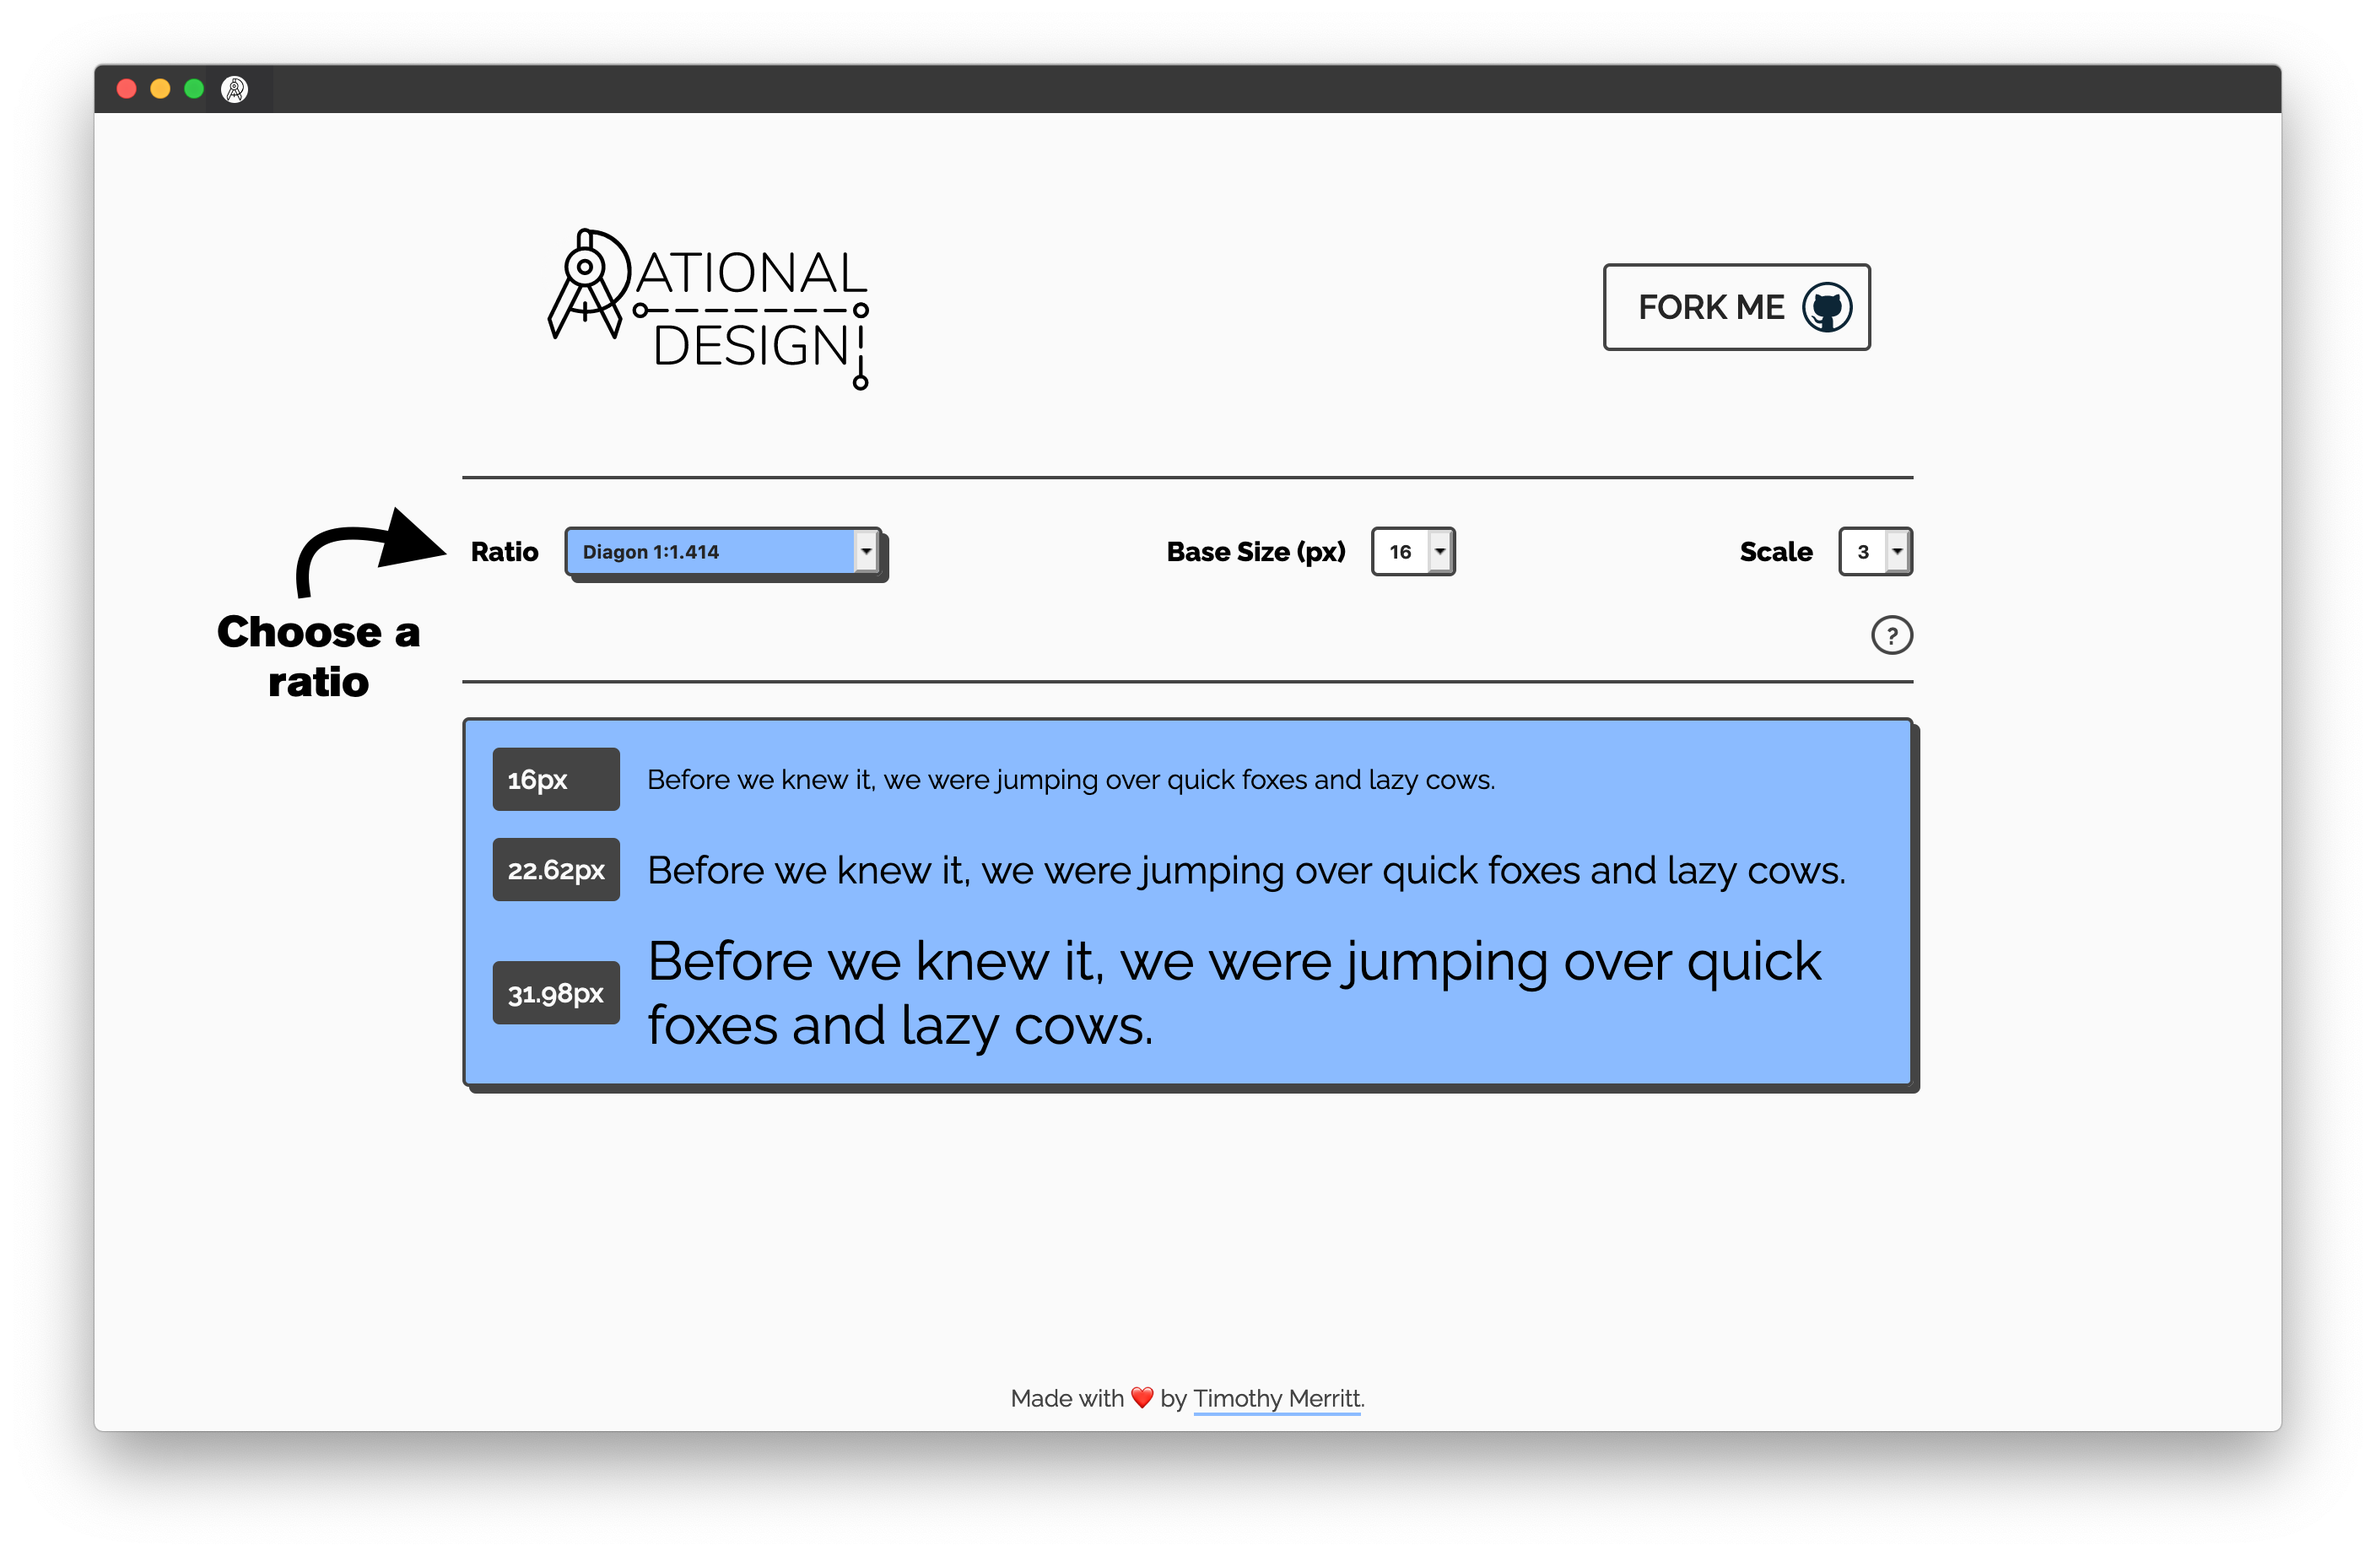
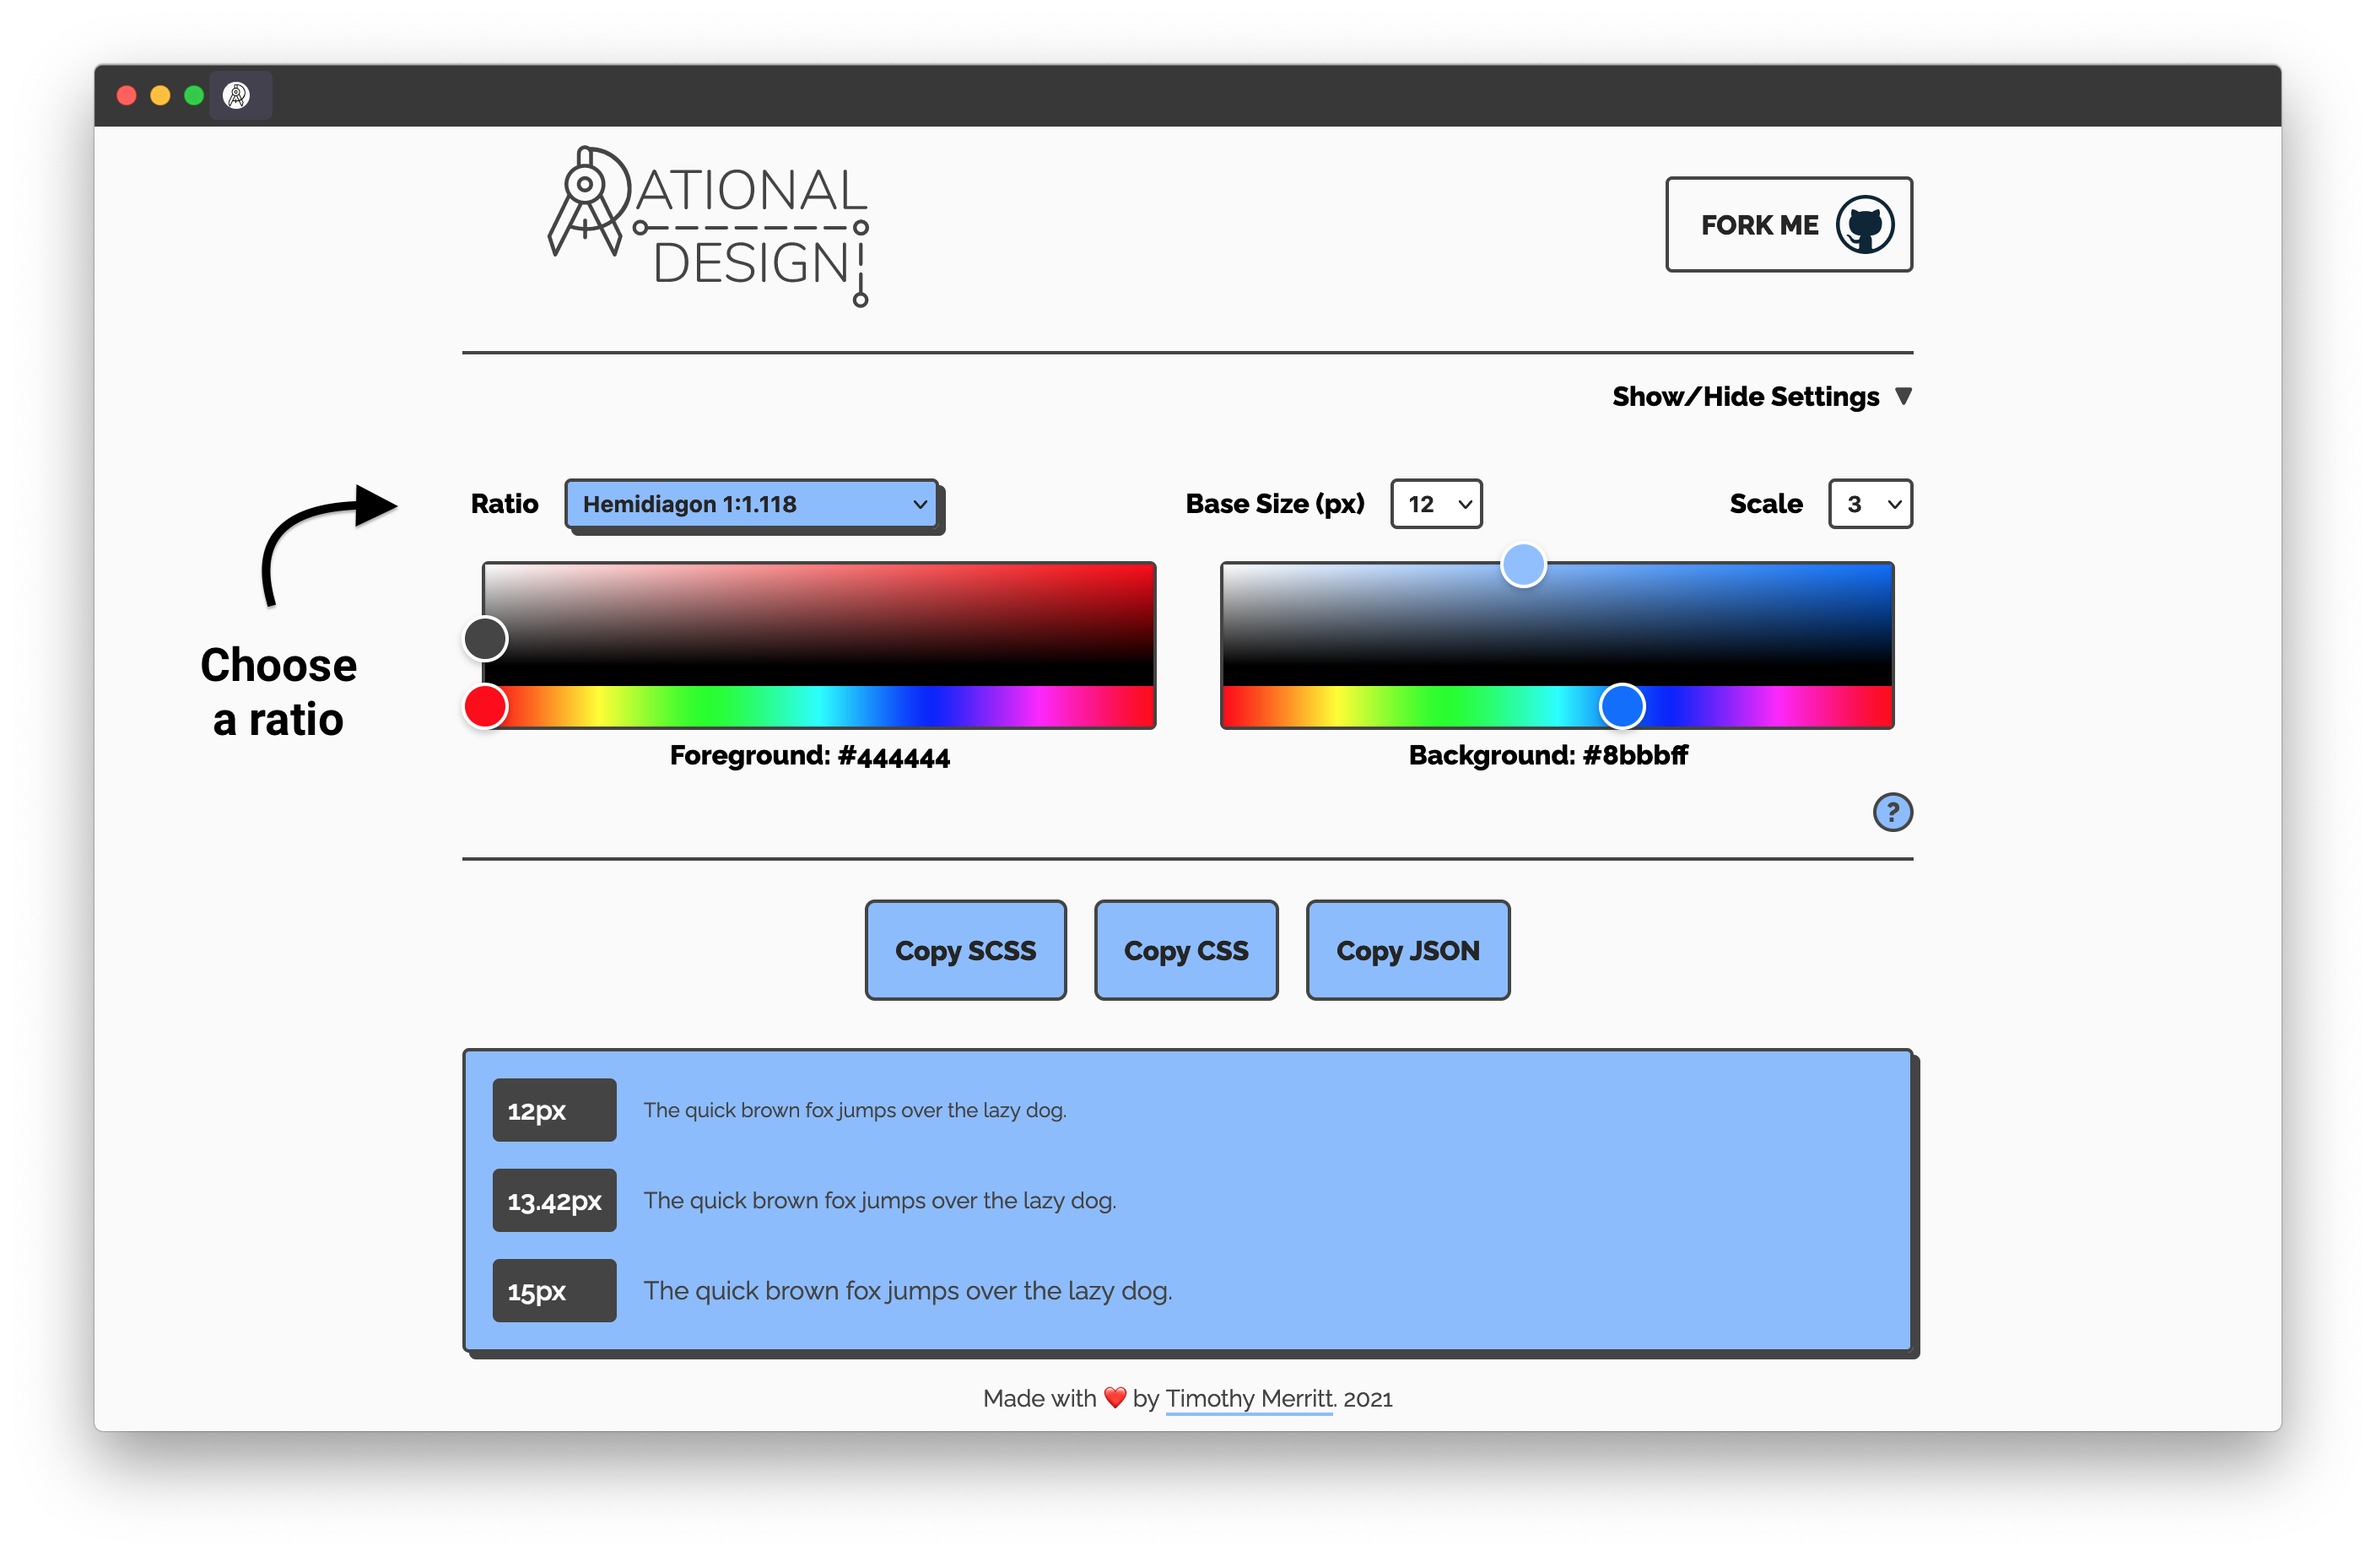
docs(README): Update how-to and add new images

diff --git a/README.md b/README.md
@@ -5,11 +5,6 @@
 <!-- Badges -->
 <div align="center">
   <img alt="GitHub last commit" src="https://img.shields.io/github/last-commit/timmybytes/rational-design" />
-  <img alt='Lighthouse accessibility score' src='./test_results/lighthouse_accessibility.svg' />
-  <img alt='Lighthouse best practices score' src='./test_results/lighthouse_best-practices.svg' />
-  <img alt='Lighthouse performance score' src='./test_results/lighthouse_performance.svg' />
-  <img alt='Lighthouse SEO score' src='./test_results/lighthouse_seo.svg' />
-  <img alt='Lighthouse PWA score' src='./test_results/lighthouse_pwa.svg' />
 </div>
 
 <div align="center">
@@ -42,7 +37,7 @@ Use the [live web app](https://timmybytes.github.io/rational-design/) to create
 a ratio-based type scale. You can click the **info button** in the app for more
 details. Play around with the settings to generate different scales.
 
-<!-- <img src='./src/assets/readme-1.png' alt='Rational Design - Info button display'> -->
+<img src='./src/assets/readme-1.png' alt='Rational Design - Info button display'>
 
 #### Select a ratio
 
@@ -51,40 +46,58 @@ The ratios included come from musical-based ratios, as well as Orthagon ratios.
 You can
 [read more about using ratios in your layouts and designs here](https://alistapart.com/article/content-out-layout/).
 
-<!-- <img src='./src/assets/readme-2.png' alt='Rational Design - Info button display'> -->
-<!-- <img src='./src/assets/readme-3.png' alt='Rational Design - Info button display'> -->
+<img src='./src/assets/readme-2.png' alt='Rational Design - Ratio'>
+<img src='./src/assets/readme-3.png' alt='Rational Design - ratios'>
 
 #### Choose a base size
 
 Choose a base font size (in pixels). The rest of your scale will be calculated
 starting from this number by applying your chosen ratio to each increment.
 
-<!-- <img src='./src/assets/readme-4.png' alt='Rational Design - Info button display'> -->
+<img src='./src/assets/readme-4.png' alt='Rational Design - base size'>
 
 #### Choose a scale
 
 The **scale** determines how many ratio increments the app should output. The
 default is 3, but you can go up to 99.
 
-<!-- <img src='./src/assets/readme-5.png' alt='Rational Design - Info button display'> -->
+<img src='./src/assets/readme-5.png' alt='Rational Design - scale'>
 
 #### Chose colors
 
-A color chooser is incorporated into Rational Design's settings via
-[react-color](https://casesandberg.github.io/react-color/#examples). Use the
-color pairings to see your type scale in different color contrasts.
+A color chooser is incorporated into Rational Design as well. Use the color
+pairings to see your type scale in different color contrasts.
 
-<!-- <img src='./src/assets/readme-colors.png' alt='Rational Design - color palette display'> -->
+<img src='./src/assets/readme-colors.png' alt='Rational Design - color palette display'>
 
 #### Copy your type scale
 
 The settings you create can be copied as SCSS, CSS, or JSON data, and pasted
 right into your project. You can use the resulting increments as a system for
-consistency in your projects. Instead of just eyeballing bigger and smaller
-sizes, choose from your scale and your designs will be more pleasing to the eye
-(and easier to manage).
+consistency in your projects:
 
-<!-- <img src='./src/assets/readme-6.png' alt='Rational Design - Info button display'> -->
+<img src='./src/assets/readme-7.png' alt='Rational Design - copy button'>
+
+##### Copied settings as SCSS variables
+
+```scss
+// Color Variables
+$foreground: #444444;
+$background: #8bbbff;
+
+// Type-Scale Variables
+$base-font-size: 12px;
+$ratio: 1.118;
+$size-1: 12px;
+$size-2: 13.42px;
+$size-3: 15px;
+```
+
+#### Hide settings
+
+You can also hide the settings panel altogether by clicking the **hide** button.
+
+<img src='./src/assets/readme-6.png' alt='Rational Design - hide settings'>
 
 ---
 
@@ -117,9 +130,7 @@ npm start
 
 ## Contributing
 
-Feel free to submit a pull request if you want to add features or changes,
-though I would caution this app is still in early stages and I plan to greatly
-expand its current feature set.
+Feel free to submit a pull request if you want to add features or changes.
 
 ## License
 
